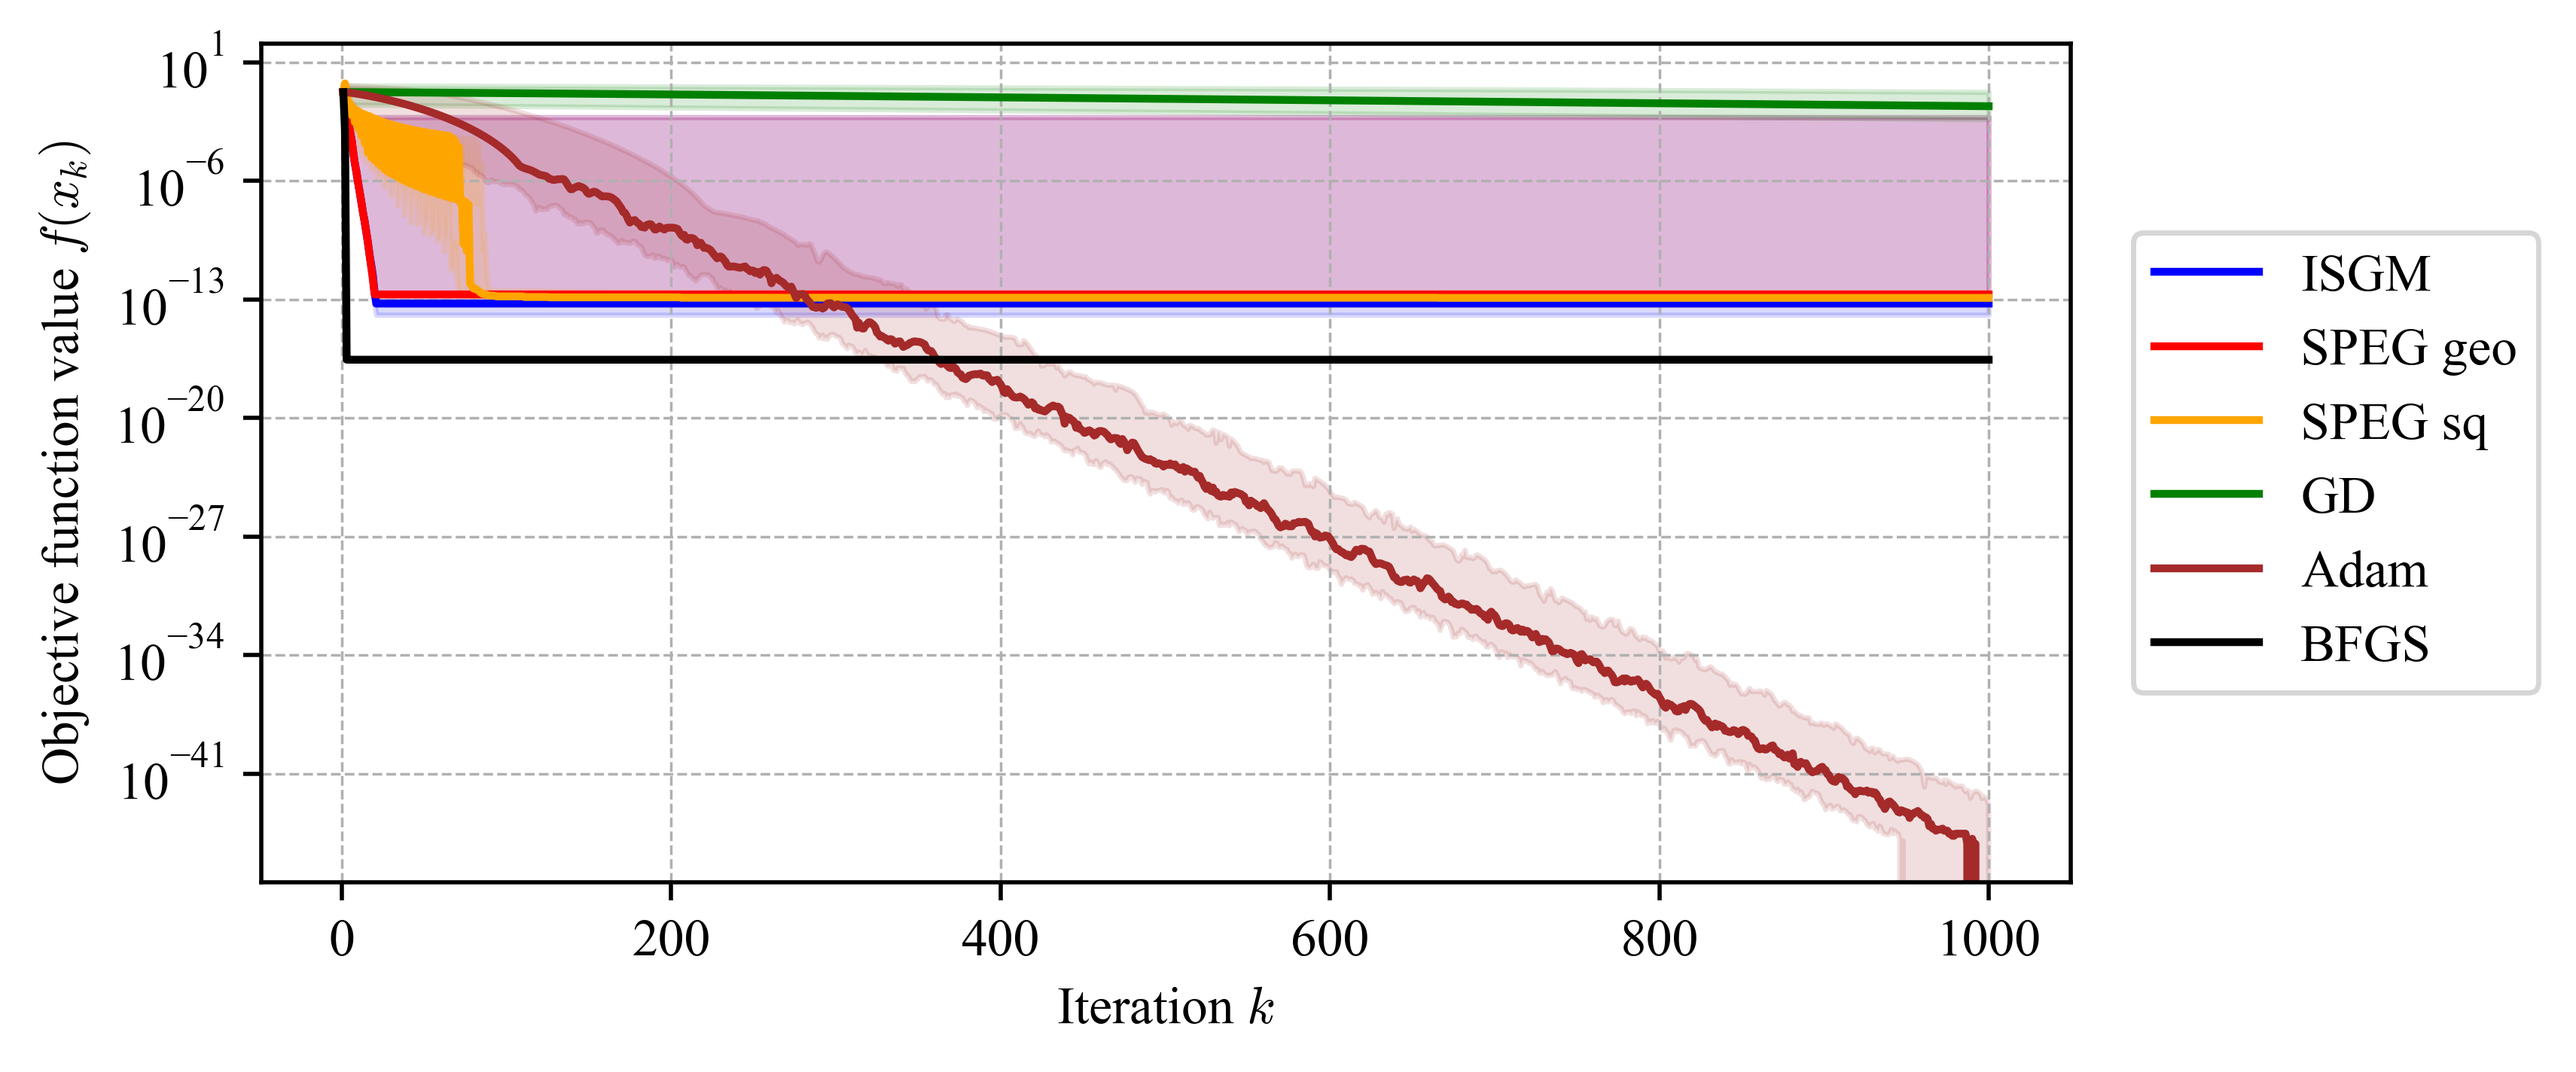
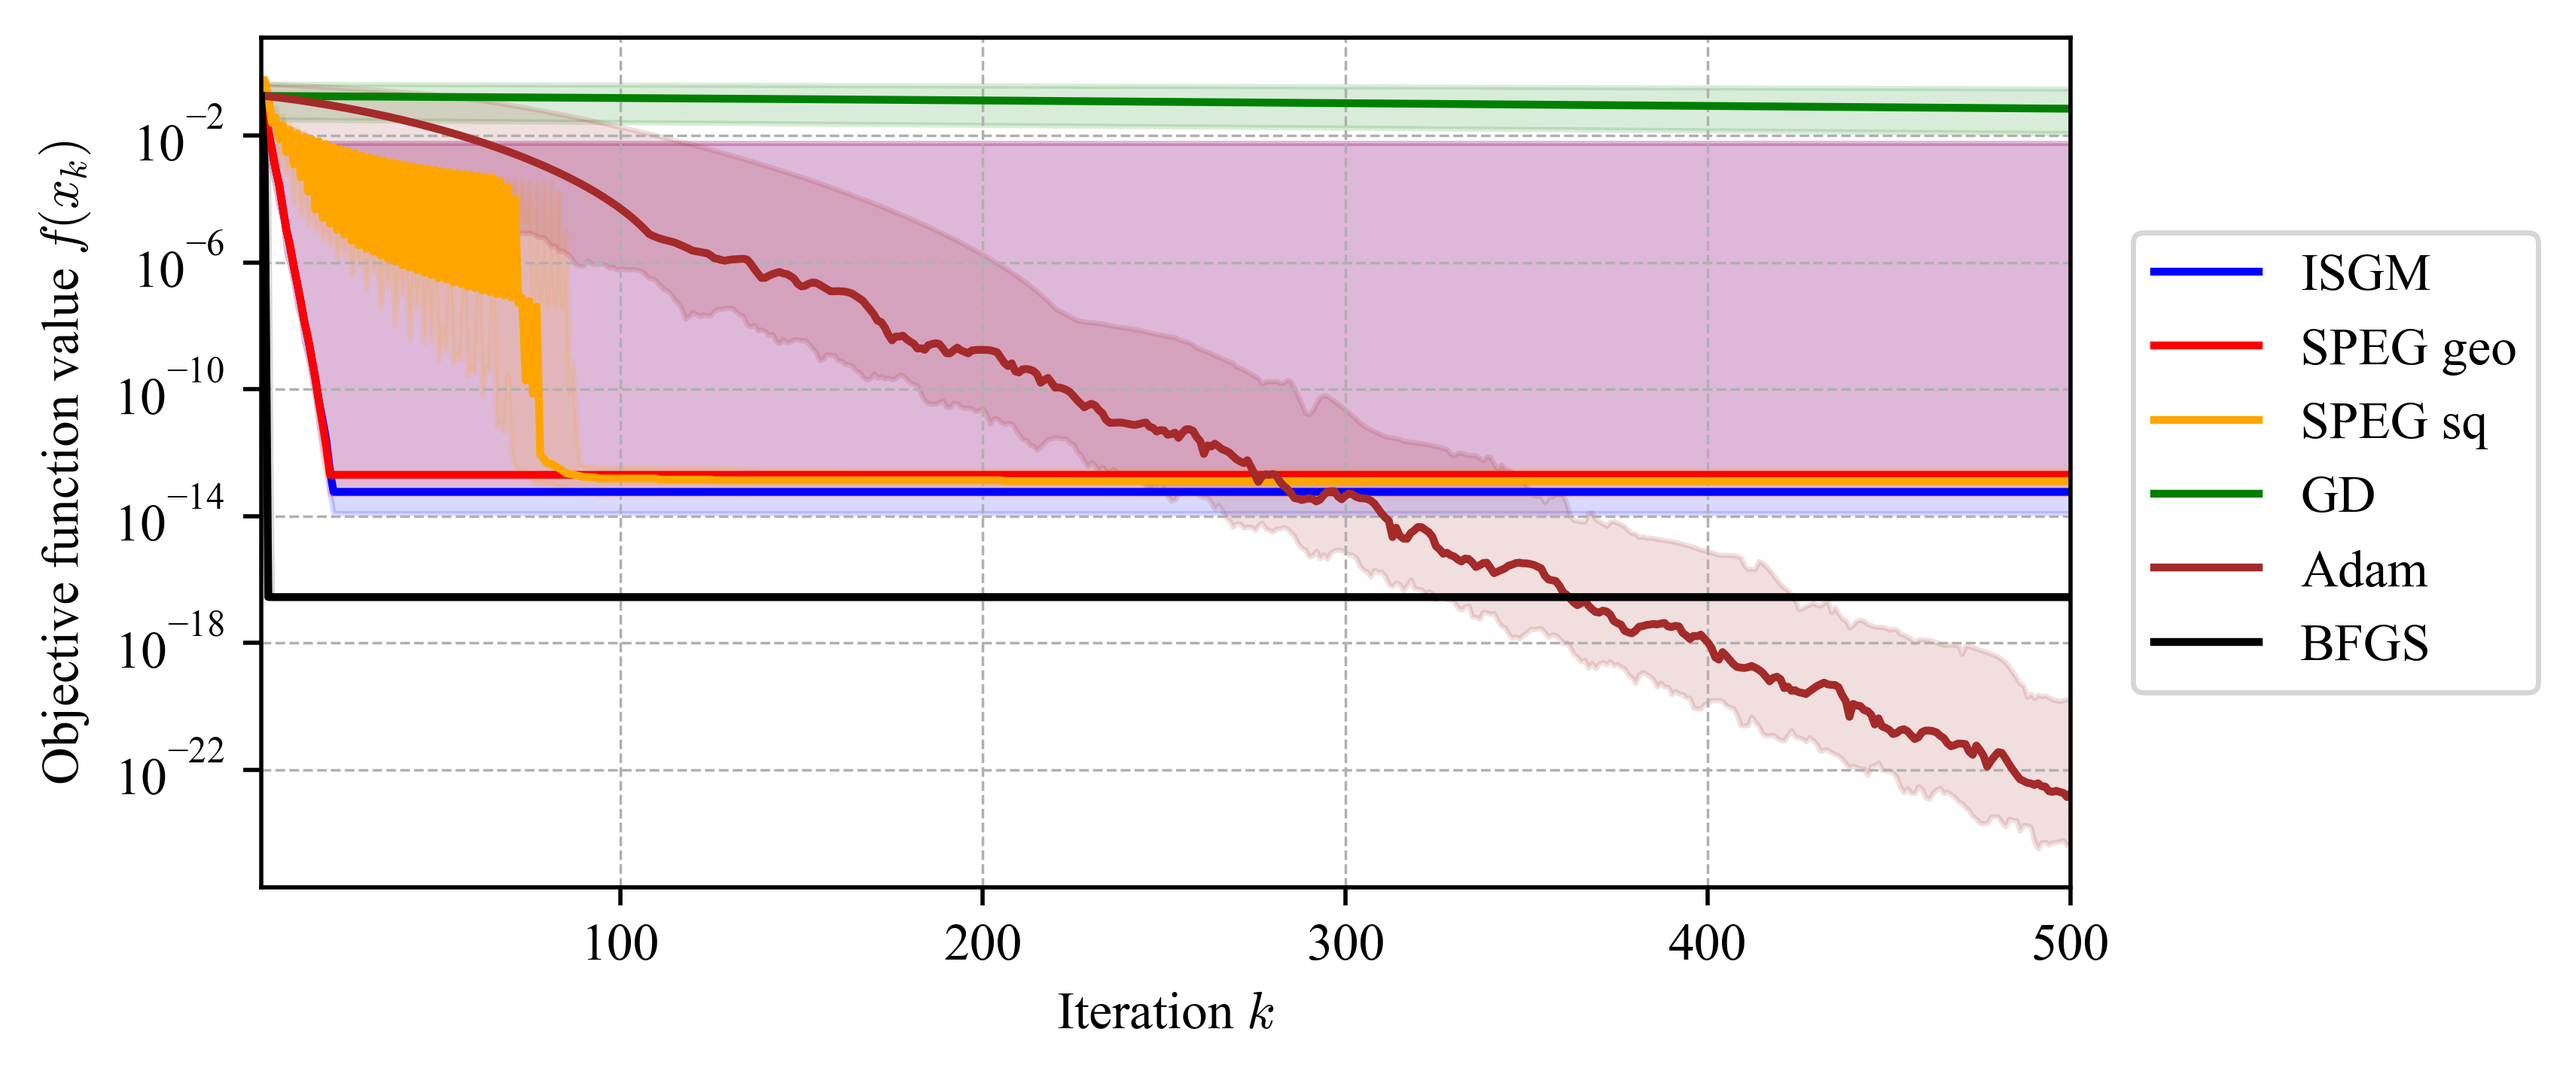
v0.9.2

diff --git a/examples/optimization/Nonsmooth convex optimization using the specular gradient method with root-linear convergence/main.py b/examples/optimization/Nonsmooth convex optimization using the specular gradient method with root-linear convergence/main.py
@@ -35,14 +35,14 @@ def f_2_torch(x):
     val_mid  = (torch.abs(x)**q) / q
     val_low  = (torch.abs(x)**p) / p
     
-    out = torch.where(x >= 0.5, val_high, 
-                    torch.where(x >= 0, val_mid, val_low))
+    out = torch.where(x >= 0.5, val_high, torch.where(x >= 0, val_mid, val_low))
     
     return torch.sum(out)
 
 # Third example (Huber Loss)
+delta = 0.5
+
 def f_3(x):
-    delta = 0.5
     x = np.asarray(x)
     abs_x = np.abs(x)
     
@@ -57,12 +57,9 @@ def f_3(x):
     return np.sum(res)
 
 def f_3_torch(x): 
-    delta = 0.5
     abs_x = torch.abs(x)
     
-    out = torch.where(abs_x <= delta, 
-                    0.5 * (x**2), 
-                    delta * (abs_x - 0.5 * delta))
+    out = torch.where(abs_x <= delta, 0.5 * (x**2), delta * (abs_x - 0.5 * delta))
     
     return torch.sum(out)
 
@@ -80,5 +77,5 @@ num_runs = 100
 if __name__ == '__main__':
     repeat_experiment(f_1, f_1_torch, num_runs, max_iter=1000, latex_code=True, save_name='1') # type: ignore
     repeat_experiment(f_2, f_2_torch, num_runs, max_iter=2000, latex_code=True, save_name='2') # type: ignore
-    repeat_experiment(f_3, f_3_torch, num_runs, max_iter=1000, latex_code=True, save_name='3') # type: ignore
+    repeat_experiment(f_3, f_3_torch, num_runs, max_iter=500, latex_code=True, save_name='3') # type: ignore
     repeat_experiment(f_4, f_4_torch, num_runs, max_iter=2000, latex_code=True, save_name='4') # type: ignore

diff --git a/examples/optimization/Nonsmooth convex optimization using the specular gradient method with root-linear convergence/tools.py b/examples/optimization/Nonsmooth convex optimization using the specular gradient method with root-linear convergence/tools.py
@@ -123,6 +123,7 @@ def repeat_experiment(f, f_torch, num_runs, max_iter, latex_code=False, save_nam
     plt.ylabel(r'Objective function value $f(x_k)$', fontsize='10') 
     plt.yscale('log')
     # plt.xscale('log') 
+    plt.xlim(1, max_iter)
     plt.legend(bbox_to_anchor=(1.02, 0.5), loc='center left', fontsize='10', frameon=True)
     plt.grid(True, which='both', linestyle='--', linewidth=0.5)
     plt.tight_layout()
